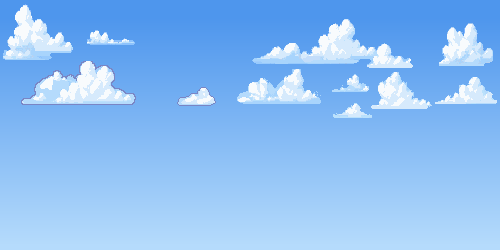
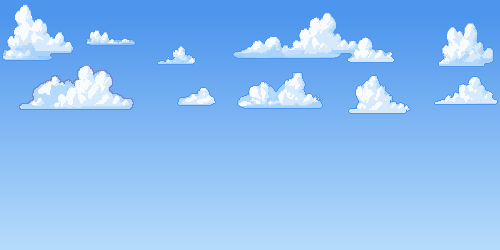
Visual tweaks

diff --git a/src/client/app/app.css b/src/client/app/app.css
@@ -32,7 +32,7 @@
   --western-mountain-bottom: 35vh;
   --western-hill-bottom: 20vh;
   --western-foreground-bottom: 0px;
-  --western-sky-drift-distance: 320px;
+  --western-sky-drift-distance: 620px;
   --western-clouds-height: 700px;
   --western-mountain-drift-distance: 480px;
   --western-hill-drift-distance: 560px;
@@ -85,7 +85,7 @@ a {
   background-repeat: repeat-x, no-repeat;
   background-size: auto var(--western-clouds-height), cover;
   animation: western-sky-drift 90s linear infinite alternate;
-  image-rendering: pixelated
+  image-rendering: pixelated;
 }
 
 .western-parallax-mountains {
@@ -96,6 +96,7 @@ a {
   background-repeat: repeat-x;
   background-size: auto 100%;
   animation: western-mountain-drift 80s linear infinite alternate;
+  image-rendering: pixelated;
 }
 
 .western-parallax-hills {
@@ -106,6 +107,7 @@ a {
   background-repeat: repeat-x;
   background-size: auto 100%;
   animation: western-hill-drift 30s linear infinite alternate;
+  image-rendering: pixelated;
 }
 
 .western-parallax-foreground {
@@ -116,6 +118,7 @@ a {
   background-repeat: repeat-x;
   background-size: auto 100%;
   animation: western-foreground-drift 10s linear infinite alternate;
+  image-rendering: pixelated;
 }
 
 .western-parallax-content {

diff --git a/src/client/app/components/westernParallaxBackground.tsx b/src/client/app/components/westernParallaxBackground.tsx
@@ -1,7 +1,7 @@
 import type { CSSProperties, ReactNode } from "react";
 
 const cloudsImagePath = "/clouds5.png";
-const distantMountainImagePath = "/distant_mountain3.png";
+const distantMountainImagePath = "/distant_mountain4.png";
 const hillsAndCactiImagePath = "/hills_and_cacti.png";
 const foregroundImagePath = "/Foreground_layer.png";
 